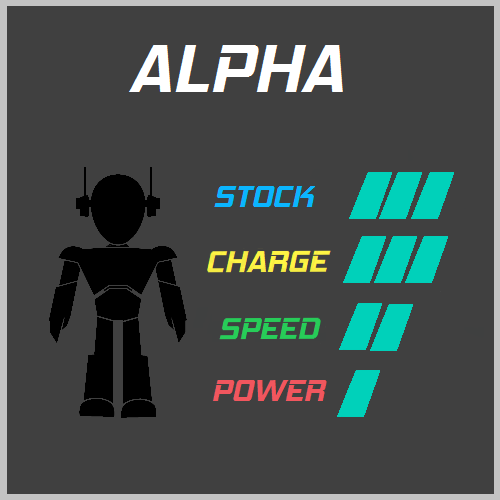
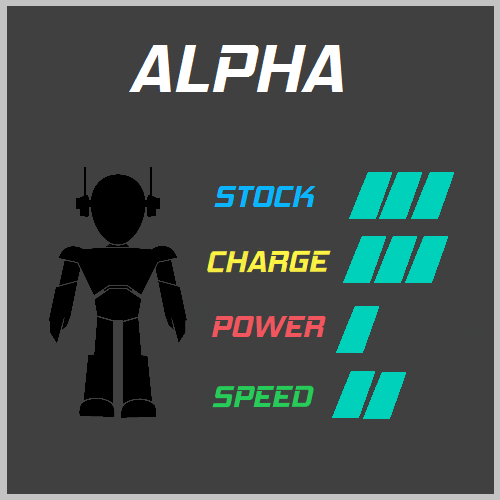
ゲームシーンの変更

Changed region(s): [[0.42, 0.6, 0.84, 0.84], [0.42, 0.75, 0.69, 0.84]]

diff --git a/Assets/Application/Scripts/System/CHARACTER_DEFINE.cs b/Assets/Application/Scripts/System/CHARACTER_DEFINE.cs
@@ -14,8 +14,7 @@ public static class CHARACTER_DEFINE {
     public const int characterVarietyNum = 10;
 	public static readonly ReadOnlyCollection<string> NAME                = Array.AsReadOnly(new string[] { "TYPE-ALPHA","TYPE-BETA","TYPE-GAMMA","TYPE-DELTA","TYPE-EPSILON","TYPE-ZETA","TYPE-ETA","TYPE-THETA","TYPE-IOTA","TYPE-KAPPA"});
 	public static readonly ReadOnlyCollection<int>    MONEY               = Array.AsReadOnly(new int[]    {    0,   2000,   4000,   6500,   9000,   11500,   14000,   18000,   25000,   50000 });
-    public static readonly ReadOnlyCollection<int>    LIFE                = Array.AsReadOnly(new int[]    {    3,    3,    2,    3,    4,    2,    3,    2,    4,    1 });
-    public static readonly ReadOnlyCollection<int>    MAX_BULLET_STOCK    = Array.AsReadOnly(new int[]    {    3,    2,    5,    3,    1,    4,    4,    5,    2,    1 });
+    public static readonly ReadOnlyCollection<int>    MAX_BULLET_STOCK    = Array.AsReadOnly(new int[]    {    3,    2,    5,    2,    1,    4,    3,    5,    4,    1 });
     public static readonly ReadOnlyCollection<float>  BULLET_INTERVAL     = Array.AsReadOnly(new float[]  { 2.0f, 1.5f, 2.0f, 2.5f, 1.0f, 2.0f, 1.5f, 2.0f, 2.5f, 0.5f });
     public static readonly ReadOnlyCollection<int>    BULLET_DAMAGE       = Array.AsReadOnly(new int[]    {    1,    1,    1,    2,    1,    2,    1,    2,    3,    1 });
     public static readonly ReadOnlyCollection<string> BULLET_PREFAB_PATH  = Array.AsReadOnly(new string[] { "Prefabs/Bullet/CharacterBullet0",

diff --git a/Assets/Test/StageTest.cs b/Assets/Test/StageTest.cs
@@ -35,7 +35,7 @@ public class StageTest : GameManager {
 		notFirstTest = false;
 
         for (int i = 0; i < CHARACTER_DEFINE.characterVarietyNum; i++) {
-            charaLife[i] = CHARACTER_DEFINE.LIFE[i];
+            //charaLife[i] = CHARACTER_DEFINE.LIFE[i];
             charaBulletInterval[i] = CHARACTER_DEFINE.BULLET_INTERVAL[i];
             charaMaxBulletStock[i] = CHARACTER_DEFINE.MAX_BULLET_STOCK[i];
             charaBulletDamage[i] = CHARACTER_DEFINE.BULLET_DAMAGE[i];
@@ -45,7 +45,7 @@ public class StageTest : GameManager {
 
     private void TestCharaInit() {
         for (int i = 0; i < CHARACTER_DEFINE.characterVarietyNum; i++) {
-            testCharaLife[i] = charaLife[i];
+            //testCharaLife[i] = charaLife[i];
             testCharaBulletInterval[i] = 0.0f;
             testCharaBulletStock[i] = 0;
         }
